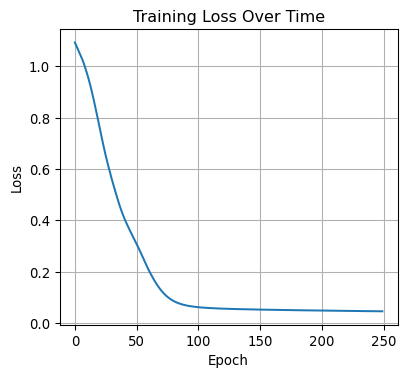
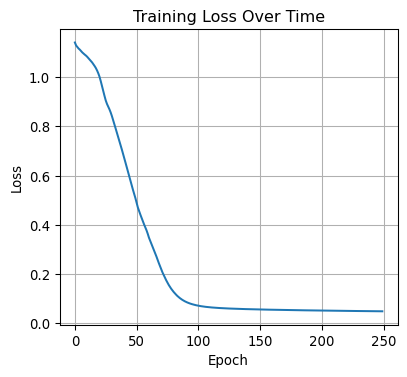
Built site for gh-pages

diff --git a/pages/303-training.html b/pages/303-training.html
@@ -374,6 +374,12 @@ pre > code.sourceCode > span > a:first-child::before { text-decoration: underlin
 <p>Once we have the gradients from backpropagation, we need to actually update the weights. This is done by an <strong>optimizer</strong>. The simplest approach is <strong>gradient descent</strong>: move each parameter a small step in the direction that reduces the loss.</p>
 <div class="sourceCode" id="cb4"><pre class="sourceCode python code-with-copy"><code class="sourceCode python"><span id="cb4-1"><a href="#cb4-1" aria-hidden="true" tabindex="-1"></a>optimizer <span class="op">=</span> torch.optim.Adam(model.parameters(), lr<span class="op">=</span><span class="fl">0.01</span>)</span></code><button title="Copy to Clipboard" class="code-copy-button"><i class="bi"></i></button></pre></div>
 <p>The learning rate <code>lr</code> controls how big the step is - too small and training takes forever; too big and you might overshoot the minimum.</p>
+<div class="quarto-figure quarto-figure-center">
+<figure class="figure">
+<p><img src="../assets/gradeint.png" class="img-fluid figure-img"></p>
+<figcaption>Gradient descent illustration</figcaption>
+</figure>
+</div>
 <p>In the training loop we call:</p>
 <div class="sourceCode" id="cb5"><pre class="sourceCode python code-with-copy"><code class="sourceCode python"><span id="cb5-1"><a href="#cb5-1" aria-hidden="true" tabindex="-1"></a>optimizer.zero_grad()  <span class="co"># Clear gradients from the previous step</span></span>
 <span id="cb5-2"><a href="#cb5-2" aria-hidden="true" tabindex="-1"></a>loss.backward()        <span class="co"># Compute new gradients</span></span>
@@ -382,7 +388,7 @@ pre > code.sourceCode > span > a:first-child::before { text-decoration: underlin
 </section>
 <section id="a-real-example" class="level3">
 <h3 class="anchored" data-anchor-id="a-real-example">A Real Example</h3>
-<div id="45ca3c95" class="cell" data-execution_count="2">
+<div id="8df3a60f" class="cell" data-execution_count="2">
 <div class="sourceCode cell-code" id="cb6"><pre class="sourceCode python code-with-copy"><code class="sourceCode python"><span id="cb6-1"><a href="#cb6-1" aria-hidden="true" tabindex="-1"></a><span class="co"># Load the Iris dataset from sklearn</span></span>
 <span id="cb6-2"><a href="#cb6-2" aria-hidden="true" tabindex="-1"></a><span class="im">from</span> sklearn.datasets <span class="im">import</span> load_iris</span>
 <span id="cb6-3"><a href="#cb6-3" aria-hidden="true" tabindex="-1"></a><span class="im">from</span> sklearn.model_selection <span class="im">import</span> train_test_split</span>
@@ -445,18 +451,18 @@ pre > code.sourceCode > span > a:first-child::before { text-decoration: underlin
 Features: 4, Classes: 3
 
 Training...
-Epoch [20/250], Loss: 0.7853
-Epoch [40/250], Loss: 0.4201
-Epoch [60/250], Loss: 0.2134
-Epoch [80/250], Loss: 0.0875
-Epoch [100/250], Loss: 0.0613
-Epoch [120/250], Loss: 0.0553
-Epoch [140/250], Loss: 0.0526
-Epoch [160/250], Loss: 0.0507
-Epoch [180/250], Loss: 0.0491
-Epoch [200/250], Loss: 0.0477
-Epoch [220/250], Loss: 0.0465
-Epoch [240/250], Loss: 0.0455</code></pre>
+Epoch [20/250], Loss: 1.0154
+Epoch [40/250], Loss: 0.6888
+Epoch [60/250], Loss: 0.3630
+Epoch [80/250], Loss: 0.1325
+Epoch [100/250], Loss: 0.0712
+Epoch [120/250], Loss: 0.0602
+Epoch [140/250], Loss: 0.0563
+Epoch [160/250], Loss: 0.0539
+Epoch [180/250], Loss: 0.0520
+Epoch [200/250], Loss: 0.0505
+Epoch [220/250], Loss: 0.0492
+Epoch [240/250], Loss: 0.0480</code></pre>
 </div>
 <div class="cell-output cell-output-display" data-execution_count="2">
 <div>
@@ -472,7 +478,7 @@ Epoch [240/250], Loss: 0.0455</code></pre>
 <section id="monitoring-training" class="level3">
 <h3 class="anchored" data-anchor-id="monitoring-training">Monitoring training</h3>
 <p>During training, we expect our loss to decrease as the model makes better and better predictions. You might have noticed above that the neural network “sees” the entire dataset multiple times - each of these is known as an “epoch”. We can plot the loss against epoch number to see how the model improves:</p>
-<div id="5711a2b3" class="cell" data-execution_count="3">
+<div id="c49f595a" class="cell" data-execution_count="3">
 <div class="sourceCode cell-code" id="cb8"><pre class="sourceCode python code-with-copy"><code class="sourceCode python"><span id="cb8-1"><a href="#cb8-1" aria-hidden="true" tabindex="-1"></a><span class="co"># Plot the training loss</span></span>
 <span id="cb8-2"><a href="#cb8-2" aria-hidden="true" tabindex="-1"></a>plt.figure(figsize<span class="op">=</span>(<span class="dv">10</span>, <span class="dv">4</span>))</span>
 <span id="cb8-3"><a href="#cb8-3" aria-hidden="true" tabindex="-1"></a>plt.subplot(<span class="dv">1</span>, <span class="dv">2</span>, <span class="dv">1</span>)</span>
@@ -495,7 +501,7 @@ Epoch [240/250], Loss: 0.0455</code></pre>
 <p>It is good that our neural network has learned from the training data, but this is no guarantee that it would work on real data.</p>
 <p>To check it works we will evaluate it on our holdout testing subset of the data. This is data for which we know the ground truth, but that the model hasn’t been trained on. We will plot a “confusion matrix” that compares the neural network’s predictions to the real labels.</p>
 <p>Note that this still isn’t a guarantee that the model will work when given some real data - e.g.&nbsp;the real data might have a different distribution, which is also something you might need to monitor!</p>
-<div id="39749444" class="cell" data-execution_count="4">
+<div id="2f623dfb" class="cell" data-execution_count="4">
 <div class="sourceCode cell-code" id="cb9"><pre class="sourceCode python code-with-copy"><code class="sourceCode python"><span id="cb9-1"><a href="#cb9-1" aria-hidden="true" tabindex="-1"></a><span class="co"># Evaluate on test set</span></span>
 <span id="cb9-2"><a href="#cb9-2" aria-hidden="true" tabindex="-1"></a>model.<span class="bu">eval</span>()  <span class="co"># Set model to evaluation mode</span></span>
 <span id="cb9-3"><a href="#cb9-3" aria-hidden="true" tabindex="-1"></a><span class="cf">with</span> torch.no_grad():  <span class="co"># Disable gradient computation for inference</span></span>
